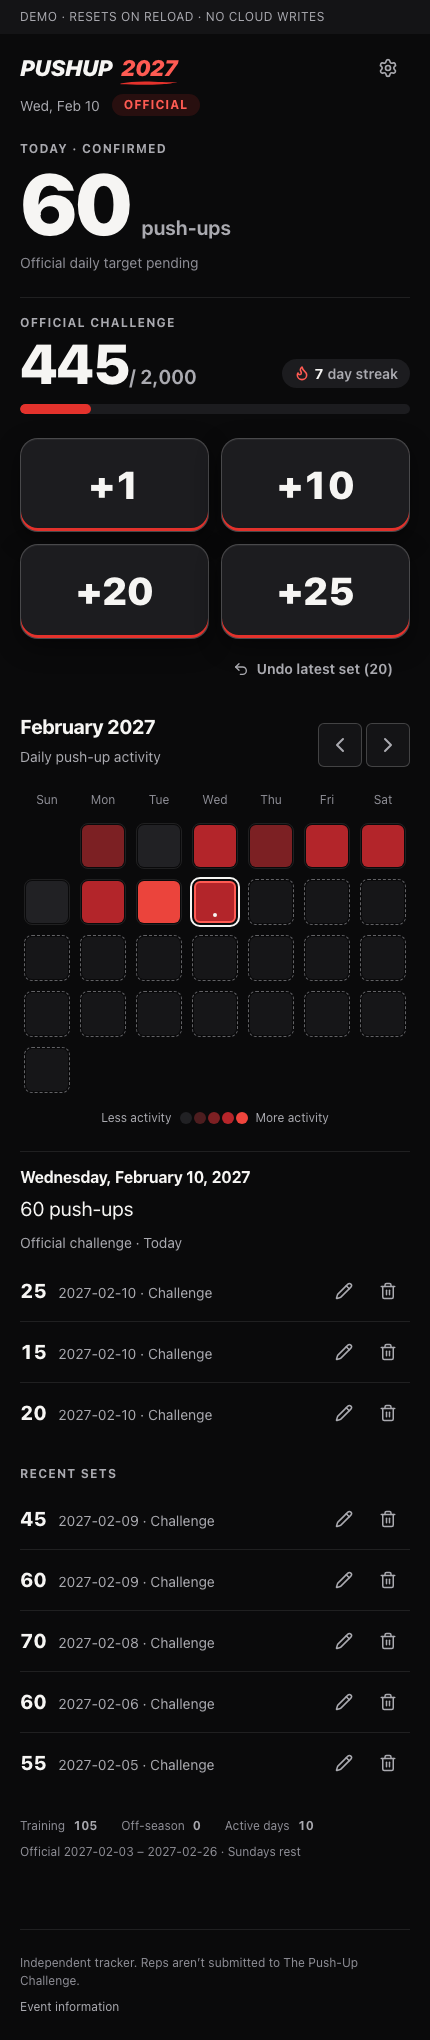
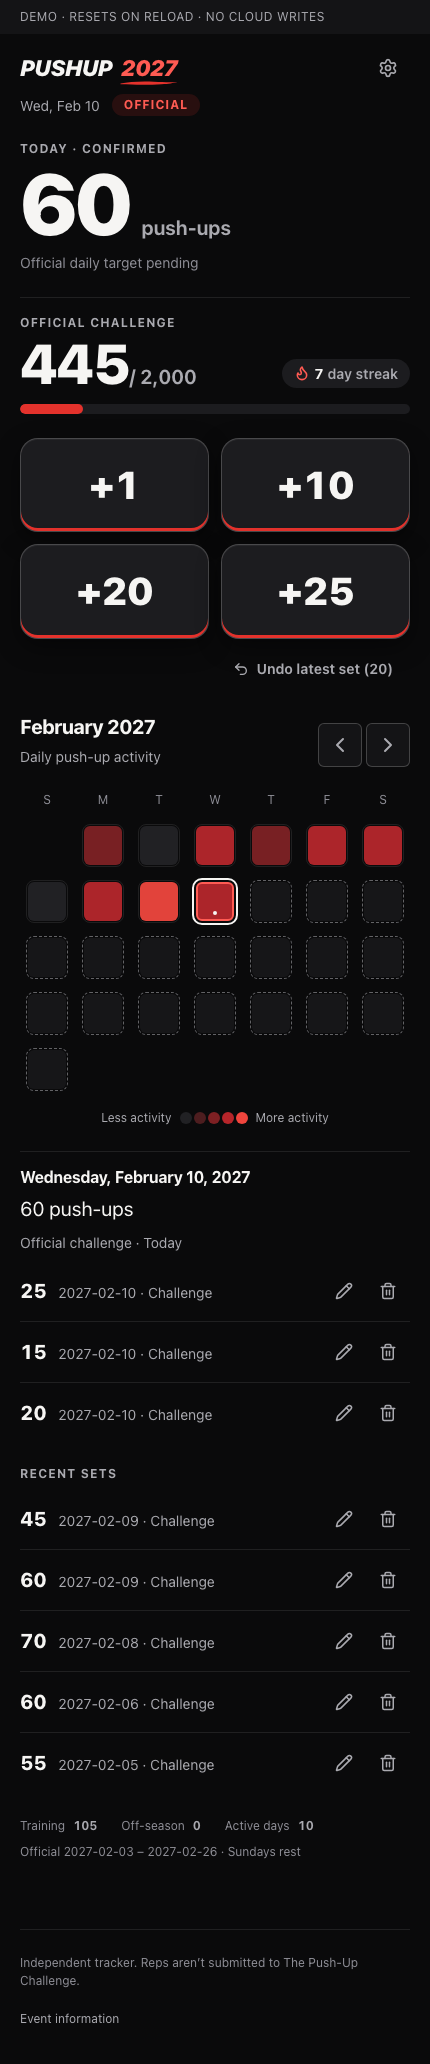
fix: QA follow-ups — repeat save confirmation, edit/remove focus, official-only streak, 200% text, tap areas (#33)

diff --git a/src/components/app/ActivityList.jsx b/src/components/app/ActivityList.jsx
@@ -71,6 +71,7 @@ export default function ActivityList({ records, canEdit, busy, edit, remove }) {
               <label>
                 Push-ups
                 <input
+                  autoFocus
                   type="number"
                   min="1"
                   max="10000"
@@ -94,6 +95,7 @@ export default function ActivityList({ records, canEdit, busy, edit, remove }) {
               <p>Remove {record.amount}-push-up set?</p>
               <div className="actions">
                 <button
+                  autoFocus
                   className="danger"
                   disabled={busy}
                   onClick={async () => {

diff --git a/src/components/home/Home.jsx b/src/components/home/Home.jsx
@@ -57,7 +57,10 @@ export default function Home({
     ? { value: summary.official, target: challenge.challenge.totalTarget }
     : null;
   const recent = records.filter((record) => record.localDate !== detailDate).slice(0, 5);
-  const streak = canLog ? computeStreak(summary.byDate, challenge.today) : 0;
+  const streak =
+    canLog && challenge.day.phase === 'OFFICIAL'
+      ? computeStreak(summary.byDate, challenge.today)
+      : 0;
   const others = [
     ['Training', summary.training],
     ['Off-season', summary.offSeason],

diff --git a/src/components/home/ProgressSummary.jsx b/src/components/home/ProgressSummary.jsx
@@ -27,7 +27,7 @@ export default function ProgressSummary({ primary, official, streak }) {
               </p>
             </div>
             {streak > 0 && (
-              <p className="streak" aria-label={`${streak}-day streak`}>
+              <p className="streak">
                 <Flame size={16} strokeWidth={2.4} aria-hidden="true" focusable="false" />
                 <span>{streak}</span>
                 <span className="streak-unit">day streak</span>

diff --git a/src/components/home/ActivitySquares.jsx b/src/components/home/ActivitySquares.jsx
@@ -134,8 +134,8 @@ function MonthActivity({
         </div>
       </header>
       <div className="as-grid">
-        {['Sun', 'Mon', 'Tue', 'Wed', 'Thu', 'Fri', 'Sat'].map((day) => (
-          <span className="as-weekday" key={day} aria-hidden="true">
+        {['S', 'M', 'T', 'W', 'T', 'F', 'S'].map((day, index) => (
+          <span className="as-weekday" key={index} aria-hidden="true">
             {day}
           </span>
         ))}

diff --git a/src/styles/base.css b/src/styles/base.css
@@ -127,6 +127,7 @@ button:disabled {
   color: var(--c-red-text);
 }
 .icon-button {
+  flex: none;
   display: inline-grid;
   place-items: center;
   width: var(--tap);
@@ -198,6 +199,8 @@ footer {
   font-size: var(--fs-xs);
 }
 footer a {
+  display: inline-block;
+  padding: var(--sp-3) 0;
   color: var(--c-text-muted);
 }
 .sr-only,

diff --git a/src/App.jsx b/src/App.jsx
@@ -164,7 +164,7 @@ export default function App() {
       clearTimeout(hide);
       setSavedToast(false);
     };
-  }, [data.saveState]);
+  }, [data.saveState, data.records]);
   const saveStatus = saving
     ? 'Saving… awaiting confirmation.'
     : data.saveState === 'saved' && savedToast

diff --git a/src/styles/tokens.css b/src/styles/tokens.css
@@ -56,7 +56,7 @@
   --sp-5: 1.5rem;
   --sp-6: 2rem;
   --sp-7: 3rem;
-  --gutter: max(1.25rem, env(safe-area-inset-left));
+  --gutter: max(20px, env(safe-area-inset-left));
 
   /* Radii */
   --r-sm: 6px;

diff --git a/src/components/home/ActivitySquares.css b/src/components/home/ActivitySquares.css
@@ -84,7 +84,7 @@
   width: 100%;
   min-width: 0;
   margin: 0;
-  padding: calc(var(--sp-3) / 2);
+  padding: 14%;
   border: 0;
   border-radius: var(--r-sm);
   background: none;

diff --git a/docs/open/033-mobile-home-ui.md b/docs/open/033-mobile-home-ui.md
@@ -8,14 +8,14 @@
 
 ## What changed
 
-| Area | Change |
-|---|---|
-| Home | One vertically scrolling page, no bottom navigation: compact header → Today + official progress → 2×2 quick-add → Activity Squares → Recent sets → quiet year breakdown. |
-| Settings | Gear in the header opens a secondary screen: Past years (read-only archive) and Account. Replaces the Log / History / Account tab bar. |
-| Heatmap | New Activity Squares month view (replaces the number-in-cell calendar from `History.jsx`, now deleted). |
-| Design system | `src/styles/tokens.css` (colour, type, spacing, radii, motion, heat scale), `base.css` (elements, forms, notices, lists), `home.css`. The old 1,270-line layered stylesheet is gone. |
-| Libraries | Radix UI primitives `@radix-ui/react-progress` (progressbar semantics) and `@radix-ui/react-collapsible` ("Another year"). Headless, styled with the tokens. |
-| Demo fixture | `?mode=demo&fixture=feb-10-2027` — fictional, in-memory, demo-only. Pins the clock to Wed 10 Feb 2027 15:00 Toronto and seeds sets so today = 60, official = 445 / 2,000, latest set = 20, streak = 7. Never used outside the memory repository. |
+| Area          | Change                                                                                                                                                                                                                                           |
+| ------------- | ------------------------------------------------------------------------------------------------------------------------------------------------------------------------------------------------------------------------------------------------ |
+| Home          | One vertically scrolling page, no bottom navigation: compact header → Today + official progress → 2×2 quick-add → Activity Squares → Recent sets → quiet year breakdown.                                                                         |
+| Settings      | Gear in the header opens a secondary screen: Past years (read-only archive) and Account. Replaces the Log / History / Account tab bar.                                                                                                           |
+| Heatmap       | New Activity Squares month view (replaces the number-in-cell calendar from `History.jsx`, now deleted).                                                                                                                                          |
+| Design system | `src/styles/tokens.css` (colour, type, spacing, radii, motion, heat scale), `base.css` (elements, forms, notices, lists), `home.css`. The old 1,270-line layered stylesheet is gone.                                                             |
+| Libraries     | Radix UI primitives `@radix-ui/react-progress` (progressbar semantics) and `@radix-ui/react-collapsible` ("Another year"). Headless, styled with the tokens.                                                                                     |
+| Demo fixture  | `?mode=demo&fixture=feb-10-2027` — fictional, in-memory, demo-only. Pins the clock to Wed 10 Feb 2027 15:00 Toronto and seeds sets so today = 60, official = 445 / 2,000, latest set = 20, streak = 7. Never used outside the memory repository. |
 
 Unchanged: authentication, Firebase repository/records/rules, `challengeModel` annual calculations,
 service worker and offline behaviour. One additive change in `useActivityData`: an optional `now`
@@ -39,7 +39,7 @@ argument (defaults to the real clock) so the fixture's pinned date can pass the 
 
 1. **Streak** = consecutive days with any push-ups ending today (or yesterday while today is still
    empty). Verified official rest Sundays neither break nor count. It only sees the loaded calendar
-   year, so it restarts on 1 January, and it is hidden at 0 and in archived years.
+   year, so it restarts on 1 January, and it is shown only during the official challenge (QA: a training/off-season streak under the "Official challenge" label was misleading), hidden at 0 and in archived years.
 2. **Heat thresholds** (illustrative, not official): 1–19, 20–49, 50–99, 100+ → four red steps; none =
    charcoal. Revisit against real data.
 3. **Past years** open as the same Home, read-only (no quick-add), with a "Back to 2027" bar. The
@@ -54,6 +54,24 @@ argument (defaults to the real clock) so the fixture's pinned date can pass the 
    WCAG 2.2 minimum; below the 44 px used for primary controls). Squares stay small as specified.
 8. Hand-built heatmap instead of a calendar library: libraries (React Aria Calendar etc.) name each
    cell with the date only; we need the day's total and phase in the accessible name.
+
+## Independent QA (subagent, read-only) and follow-ups
+
+Passed: no overflow 320–1280, axe wcag2a/2aa/21aa clean on Home, Settings, archive and each phase,
+correct weekday alignment, phase labels, rest-day / archive / month-bound behaviour, keyboard roving
+focus, reduced motion, no console errors. Fixed after QA: "Saved" confirmation only appeared on the
+first save in demo; focus is now placed in the edit field / confirm button when a set is edited or
+removed; streak limited to the official phase; 320 px at 200 % text (heatmap squares, weekday
+letters now single characters, settings gear no longer squeezed); footer link tap area; streak had
+an invalid `aria-label`.
+
+Not changed, for owner decision: (a) **Undo** reads "Undo latest set (N)" and can undo the most
+recent set from a previous day when today is empty (existing behaviour, kept); (b) set rows keep
+the existing ISO date and "Challenge" wording versus "Official" elsewhere; (c) heat levels 0–1 are
+close to the background (1.2–1.4:1) by design — counts are in each cell's accessible name and the
+detail panel; (d) past real challenge years with no configured edition read as "Off-season"
+(existing model behaviour); (e) the day-detail region is `aria-live`, so screen readers announce
+it on each date change (untested with a real screen reader).
 
 ## Verification (run in the isolated worktree)
 
@@ -74,6 +92,7 @@ argument (defaults to the real clock) so the fixture's pinned date can pass the 
 npm ci && npm run dev -- --host
 # open http://<your-computer-LAN-IP>:5173/the-pushup-challenge-2025/?mode=demo&fixture=feb-10-2027
 ```
+
 Demo mode is memory-only (resets on reload, no Firebase reads or writes). For the real signed-in
 view, use a normal dev build with your own Firebase sign-in; nothing here changes rules or data.
 
